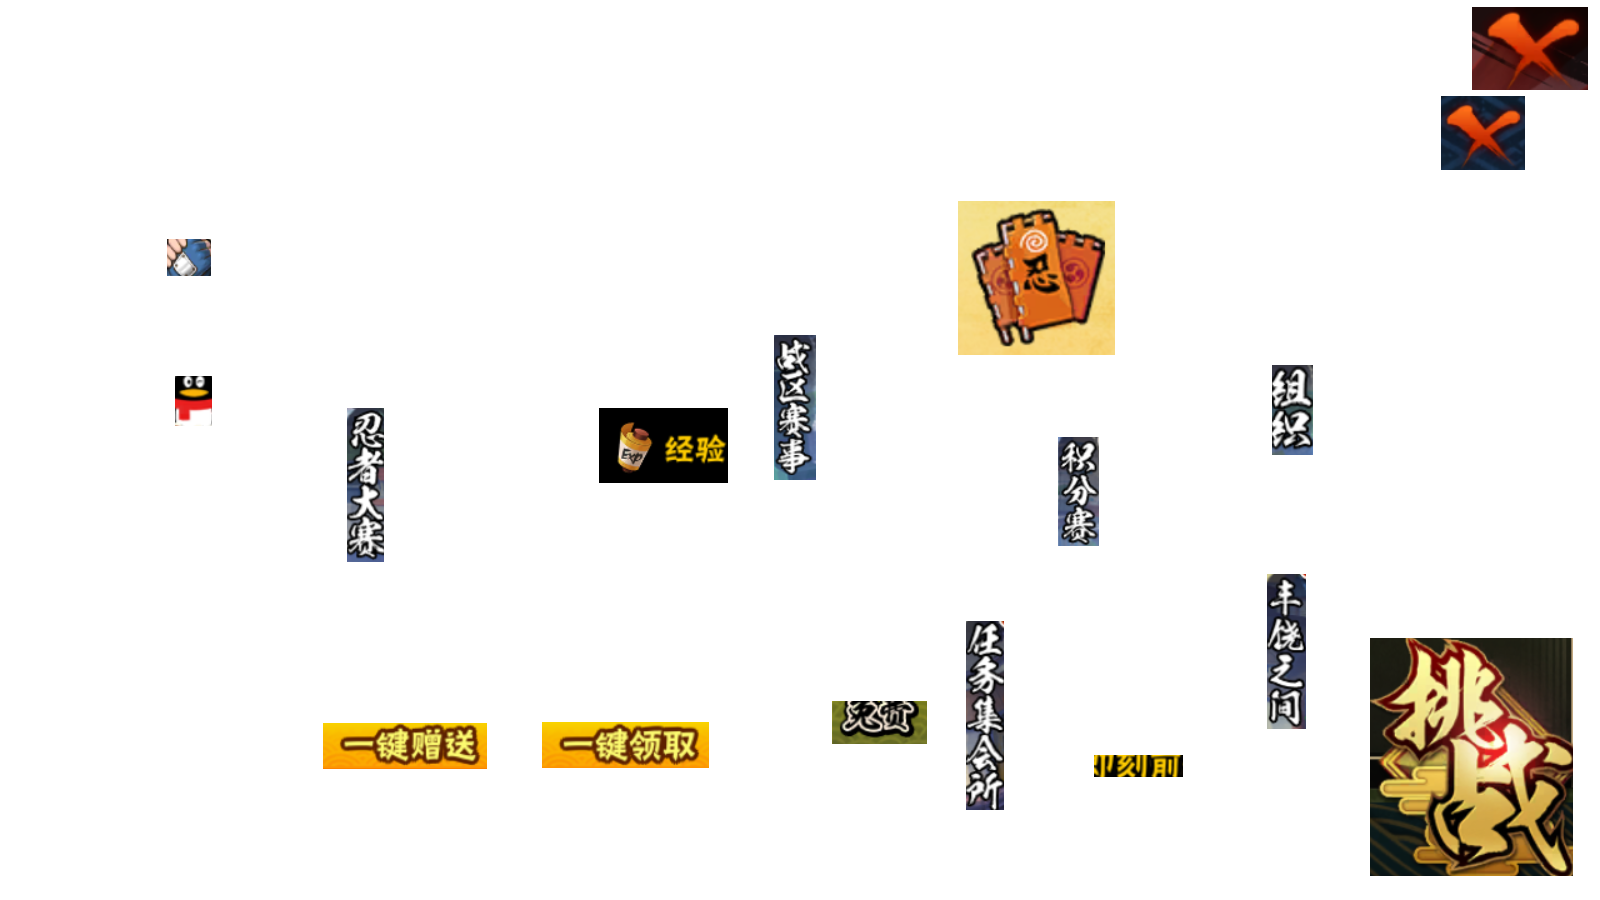
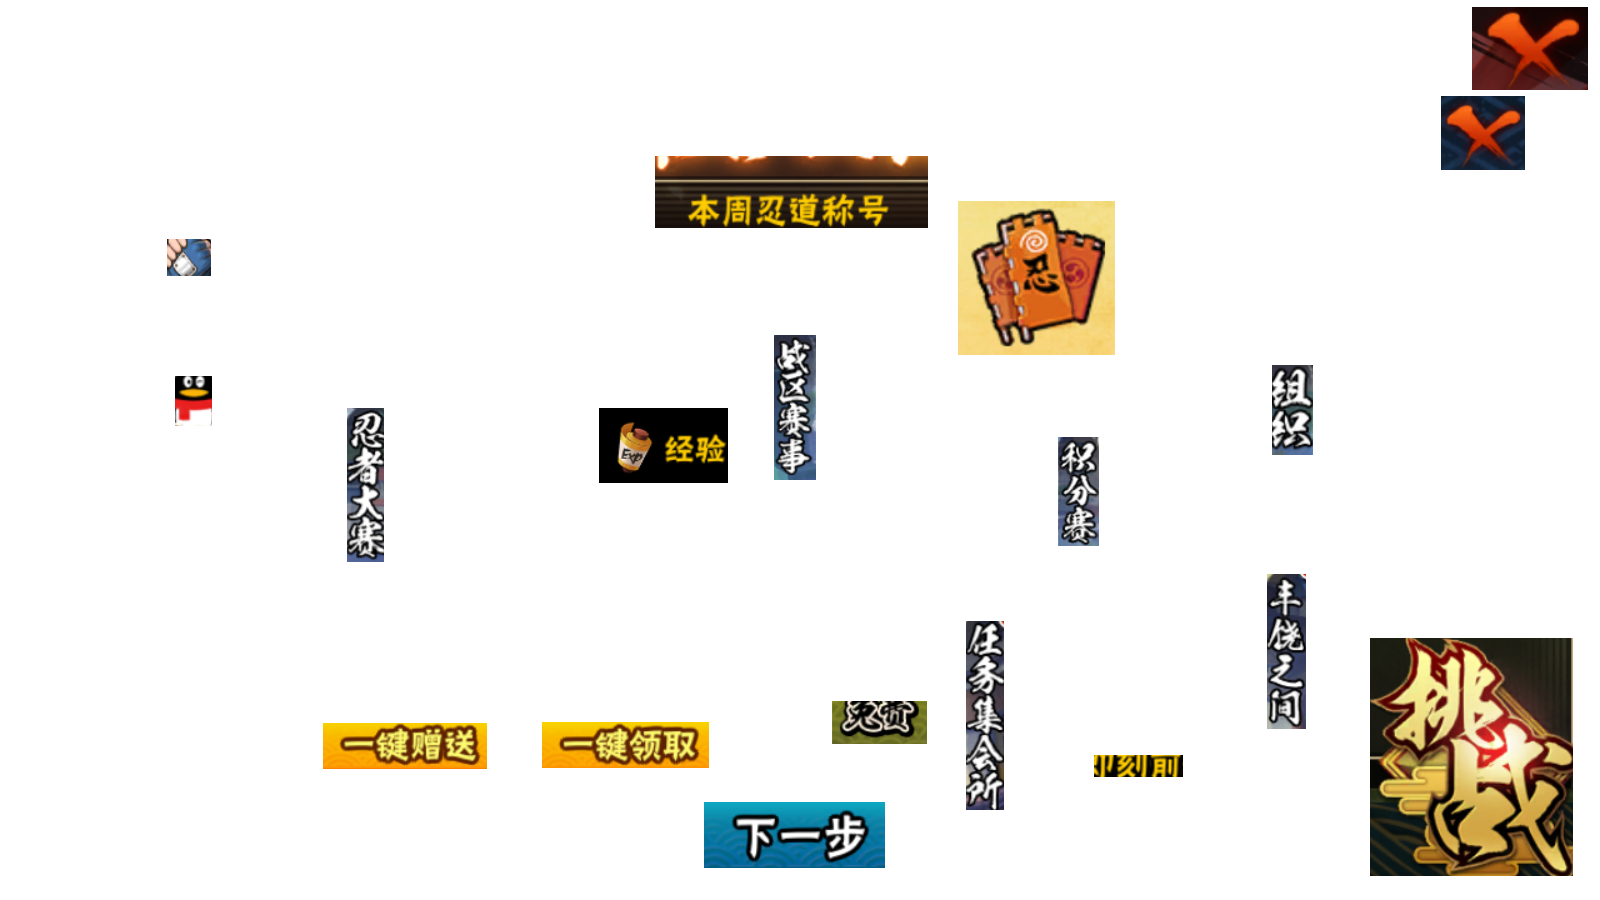
fix: 每日分享的称号页改用模板识别
原来用 OCR 找「本周忍道」/「格斗称号」再点「下一步」/「确定」，
改为按模板判断页面并点对应按钮:
    share_rendaochenghao -> rendaochenghao_next
    share_gedouchenghao  -> gedouchenghao_confirm
两个页面都没出现、personal_share 也没出现，仍然回主页面重试整个每日分享。

Changed region(s): [[0.4062, 0.1556, 0.5938, 0.28], [0.4375, 0.8711, 0.5625, 0.9644]]

diff --git a/src/tasks/share_task.py b/src/tasks/share_task.py
@@ -22,12 +22,15 @@ SHARE_TARGET_TIMEOUT = 2.0
 
 # 分享页打开后，如果不是直接出现 personal_share，可能先走「称号」引导页：
 #   本周忍道称号 -> 本次获得格斗称号（一般这个顺序，也可能单独出现）
-# 每页点「下一步」/「确定」翻过去，直到 personal_share 出现。
-# 用短一点的子串做 OCR 匹配，抗误读。
-TITLE_TEXTS = ('本周忍道', '格斗称号')
-NEXT_TEXTS = ('下一步', '确定')
-TITLE_STEP_TIMEOUT = 1.0     # 每轮找称号/下一步各等多久
-TITLE_STEP_WAIT = 1.0        # 点完「下一步」/「确定」后等多久（用户指定）
+# 用模板识别页面，点对应的按钮翻过去，直到 personal_share 出现。
+#   share_rendaochenghao -> rendaochenghao_next
+#   share_gedouchenghao  -> gedouchenghao_confirm
+TITLE_STEPS = (
+    ('share_rendaochenghao', 'rendaochenghao_next'),
+    ('share_gedouchenghao', 'gedouchenghao_confirm'),
+)
+TITLE_STEP_TIMEOUT = 1.0     # 找页面模板 / 点按钮各等多久
+TITLE_STEP_WAIT = 1.0        # 点完之后等多久（用户指定）
 TITLE_STEP_MAX = 10          # 最多翻几页，防止死循环
 # 点中分享渠道之后等目标 App 起来的时间
 SHARE_APP_WAIT = 3.0
@@ -53,7 +56,8 @@ class ShareTask(PageNavTask):
 
             点左上角分享入口，进入分享页面（一轮只点一次）
               若没出现 personal_share，先处理「称号」引导页
-                （本周忍道称号 / 本次获得格斗称号 -> 点「下一步」/「确定」）
+                （share_rendaochenghao -> rendaochenghao_next
+                  share_gedouchenghao  -> gedouchenghao_confirm）
               检测并点击 personal_share（最多 3 次）
                 每次点完等 1 秒，检测有没有 share_qq / share_wechat
                   有   -> 点它，继续后面的收尾步骤
@@ -110,25 +114,27 @@ class ShareTask(PageNavTask):
                     self.log_info(f"personal_share 出来了（翻了 {k - 1} 页称号）")
                 break
 
-            title = next((t for t in TITLE_TEXTS
-                          if self.ocr_has_text(t, time_out=TITLE_STEP_TIMEOUT)), None)
-            if title is None:
+            # 用模板判断是哪个称号页（本周忍道 / 本次获得格斗）
+            step = next(((page, btn) for page, btn in TITLE_STEPS
+                         if self.find_one(page, threshold=0.8)), None)
+            if step is None:
                 # 既没有 personal_share，也没有称号页 -> 分享页没打开
                 self.log_warning("既没出现 personal_share 也没有称号页"
-                                 "（本周忍道 / 格斗称号），本轮放弃，回主页面重试")
+                                 "（rendaochenghao / gedouchenghao），"
+                                 "本轮放弃，回主页面重试")
                 return False
 
-            clicked = next((t for t in NEXT_TEXTS
-                            if self.ocr_click_text(t, time_out=TITLE_STEP_TIMEOUT)), None)
-            if clicked is None:
-                self.log_warning(f"看到「{title}」但没找到「下一步」/「确定」")
+            page, btn = step
+            if not self.safe_click_feature(btn, threshold=0.8,
+                                           time_out=TITLE_STEP_TIMEOUT):
+                self.log_warning(f"看到 {page}，但没点到「{btn}」")
                 return False
-            self.log_info(f"第 {k}/{TITLE_STEP_MAX} 页：识别到「{title}」，点击「{clicked}」")
+            self.log_info(f"第 {k}/{TITLE_STEP_MAX} 页：{page}，点击 {btn}")
             self.sleep(TITLE_STEP_WAIT)
 
-            # 点完「下一步」/「确定」后若 personal_share 出来了，直接跳出循环
+            # 点完之后若 personal_share 出来了，直接跳出循环
             if self.find_one('personal_share', threshold=0.8):
-                self.log_info(f"点完「{clicked}」后 personal_share 出来了，退出称号页循环")
+                self.log_info(f"点完 {btn} 后 personal_share 出来了，退出称号页循环")
                 break
         else:
             self.log_warning(f"翻了 {TITLE_STEP_MAX} 页还没出现 personal_share，本轮放弃")
